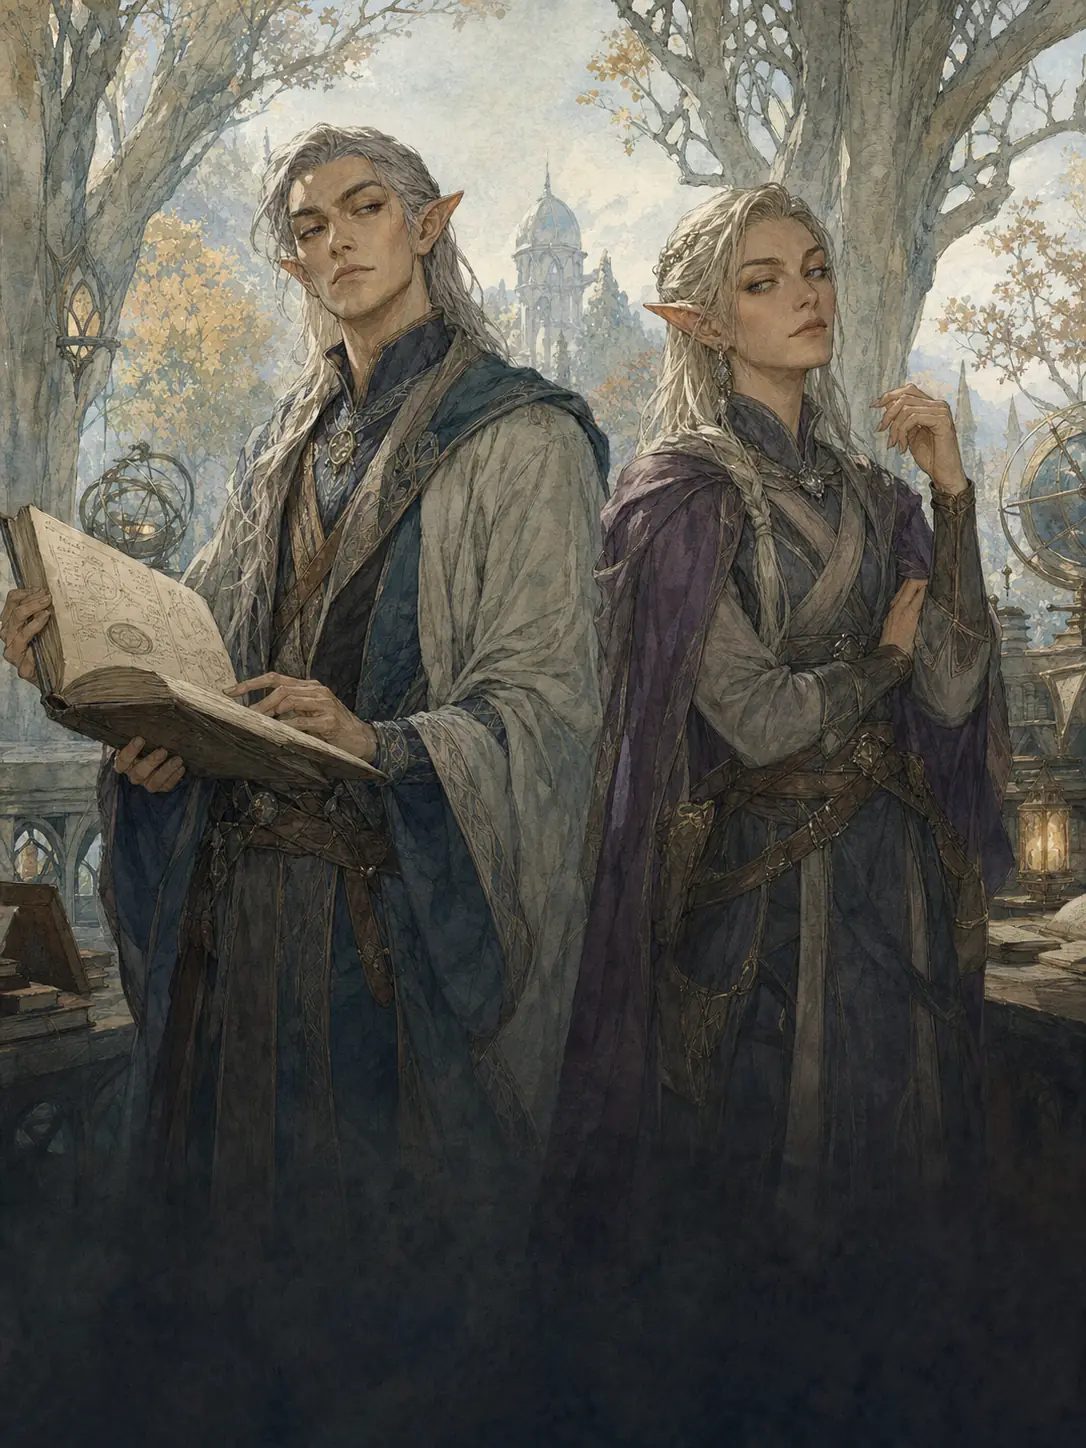
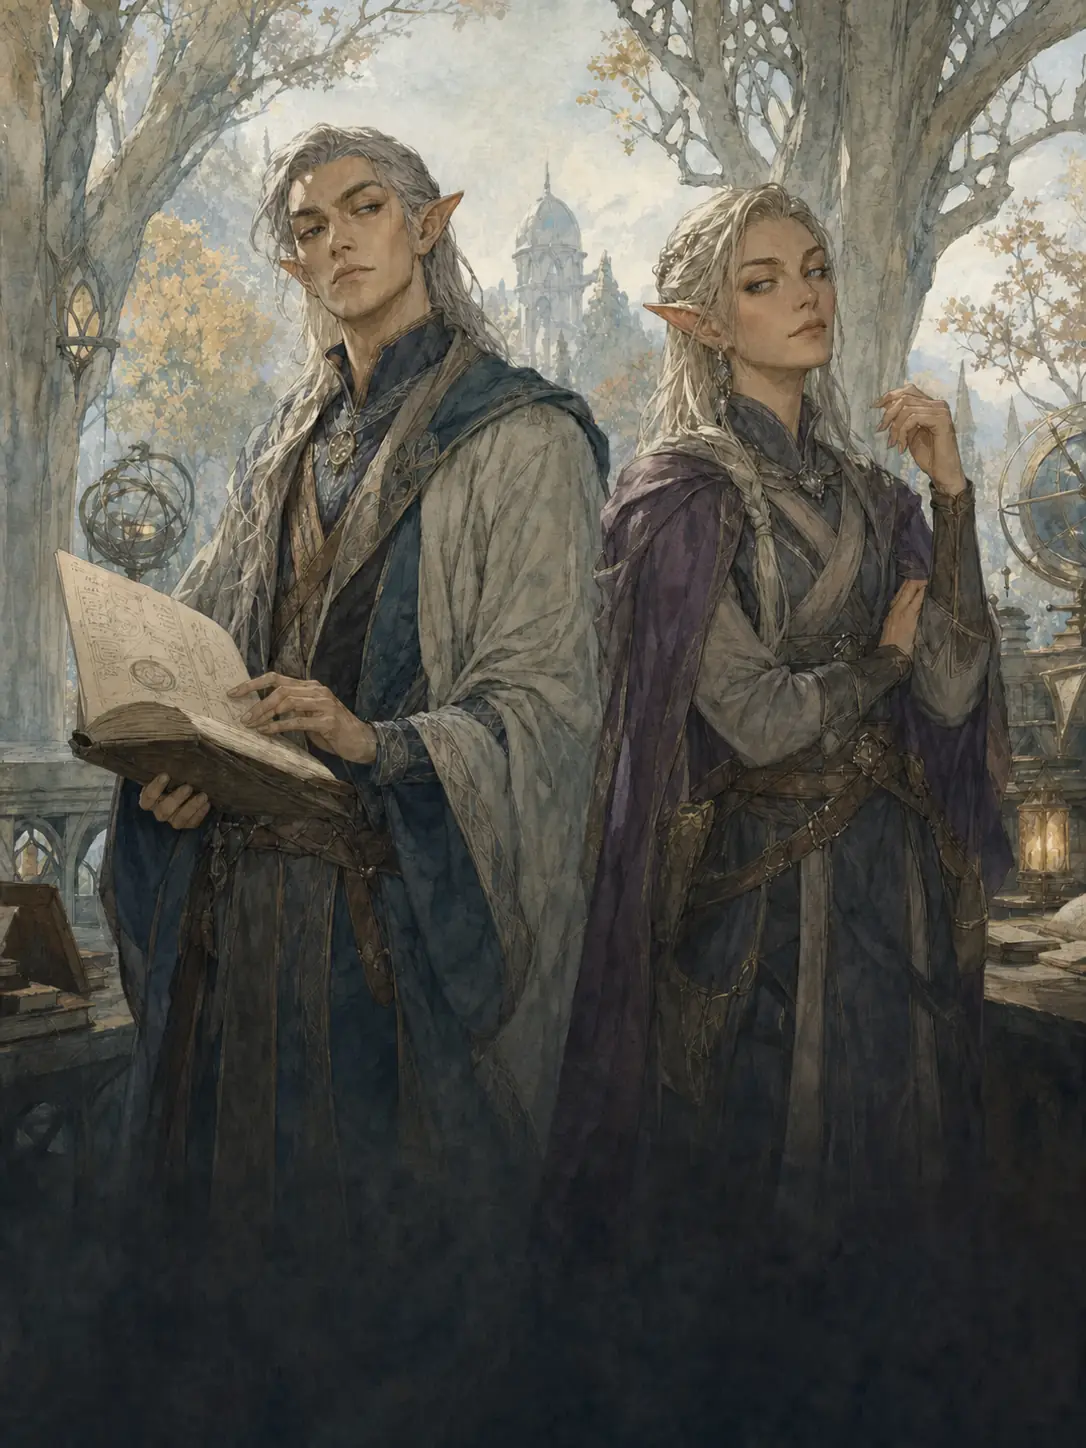
art: correct elf illustration anatomy

diff --git a/docs/art/prompts/elf.md b/docs/art/prompts/elf.md
@@ -23,3 +23,19 @@ filigree, dramatic magic, or exaggerated ears.
 ## Processing
 
 `ffmpeg -i input.png -c:v libwebp -quality 72 -compression_level 6 elf.webp`
+
+## Anatomical correction
+
+The generated proof was edited with the original asset as the edit target:
+
+```text
+Remove the extra third hand gripping the far-left outer edge of the open book. Reconstruct that small area as the
+natural left edge of the parchment page and the matching softly painted academy background behind it. The male elf
+must have exactly two hands total: one hand supporting the book from underneath near the lower-left/center of the
+book, and one hand resting on or turning the lower-right page. Do not add, remove, relocate, or redesign either of
+those two correct hands. Preserve both elves' identities, faces, expressions, hair, ears, poses, bodies, clothing,
+accessories, book size and orientation, remaining two hands, page drawings, background, trees, architecture, palette,
+lighting, dark lower UI-safe area, framing, resolution, and the hand-painted gouache/watercolor sourcebook style.
+```
+
+No other intentional changes were requested.
